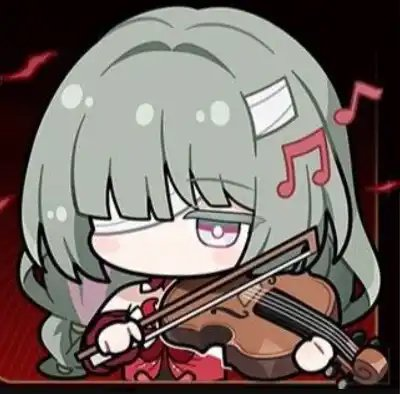
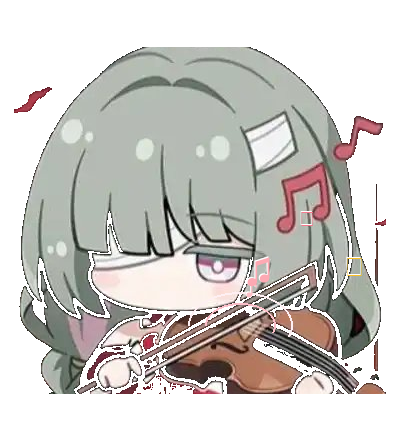
feat(mascot): add animated music.gif for Phrolova bowing violin with floating sound notes

diff --git a/view/ui/mascot/characters/phrolova_renderer.py b/view/ui/mascot/characters/phrolova_renderer.py
@@ -53,6 +53,10 @@ class PhrolovaRenderer(BaseCharacterRenderer):
         self._drag_delays: List[float] = []
         self._drag_total_time: float = 0.0
 
+        self._music_frames: List[QPixmap] = []
+        self._music_delays: List[float] = []
+        self._music_total_time: float = 0.0
+
         self._load_sprites()
 
     @staticmethod
@@ -100,6 +104,7 @@ class PhrolovaRenderer(BaseCharacterRenderer):
         idle_gif = os.path.join(self.skin_dir, "idle.gif")
         talk_gif = os.path.join(self.skin_dir, "talk.gif")
         drag_gif = os.path.join(self.skin_dir, "drag.gif")
+        music_gif = os.path.join(self.skin_dir, "music.gif")
         music_png = os.path.join(self.skin_dir, "music.png")
 
         idle_png = os.path.join(self.skin_dir, "idle.png")
@@ -136,8 +141,12 @@ class PhrolovaRenderer(BaseCharacterRenderer):
         elif os.path.isfile(drag_png):
             self._drag_pm = QPixmap(drag_png)
 
-        # 4. Music PNG (violin)
-        if os.path.isfile(music_png):
+        # 4. Music GIF & PNG (violin performance)
+        if os.path.isfile(music_gif):
+            self._music_frames, self._music_delays, self._music_total_time = self._load_gif_frames(music_gif)
+            if self._music_frames:
+                self._music_pm = self._music_frames[0]
+        elif os.path.isfile(music_png):
             pm = QPixmap(music_png)
             if not pm.isNull():
                 self._music_pm = pm
@@ -238,7 +247,7 @@ class PhrolovaRenderer(BaseCharacterRenderer):
             model, is_speaking, is_music, is_dragging_or_dizzy, is_waking_up, now
         )
         if active_pm is not None and not active_pm.isNull():
-            target_size = 102.0 if is_music else 96.0
+            target_size = 98.0
             scaled = active_pm.scaled(
                 int(target_size), int(target_size),
                 Qt.AspectRatioMode.KeepAspectRatio,
@@ -246,27 +255,7 @@ class PhrolovaRenderer(BaseCharacterRenderer):
             )
             draw_x = cx - scaled.width() / 2.0
             draw_y = cy - scaled.height() / 2.0
-
-            if is_music:
-                # Rounded badge with crimson border for the violin sticker
-                painter.save()
-                clip_path = QPainterPath()
-                clip_path.addRoundedRect(QRectF(draw_x, draw_y, scaled.width(), scaled.height()), 14, 14)
-                painter.setClipPath(clip_path)
-                painter.drawPixmap(int(draw_x), int(draw_y), scaled)
-                painter.restore()
-
-                # Elegant glowing neon crimson border
-                painter.save()
-                pulse_border = (math.sin(model.pulse_phase * 3.5) + 1.0) / 2.0
-                border_alpha = int(180 + pulse_border * 75)
-                pen = QPen(QColor(244, 63, 94, border_alpha), 2.0)
-                painter.setPen(pen)
-                painter.setBrush(Qt.BrushStyle.NoBrush)
-                painter.drawRoundedRect(QRectF(draw_x, draw_y, scaled.width(), scaled.height()), 14, 14)
-                painter.restore()
-            else:
-                painter.drawPixmap(int(draw_x), int(draw_y), scaled)
+            painter.drawPixmap(int(draw_x), int(draw_y), scaled)
 
         # 1.5. Foreground Floating Notes & Twinkling Sparkles (when playing music)
         if is_music:
@@ -305,7 +294,11 @@ class PhrolovaRenderer(BaseCharacterRenderer):
                     return frame
             return self._drag_pm or self._idle_pm
         if is_music:
-            # Violin sticker emote
+            # Animated violin performance GIF!
+            if self._music_frames:
+                frame = self._get_animated_frame(self._music_frames, self._music_delays, self._music_total_time, now)
+                if frame:
+                    return frame
             return self._music_pm or self._idle_pm
         if is_speaking:
             # Chibi nodding & talking GIF
